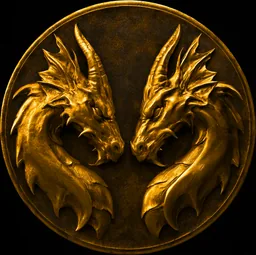
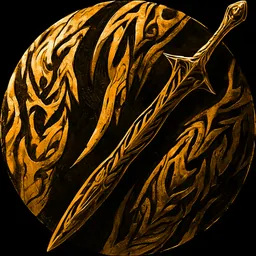
#349i the tribal crests cohere, and the 19px limit turns out to be the FORMAT not the style
The owner generated the room marks again in tribal form after the relief medallions failed to
make a set. The difference is measurable and it is the point: four returns sharing ONE language,
gold on black, ink density clustered 71-83%. That is exactly the set-consistency --sref could
not buy in #349g. Tribal is flatter, so there is less for the model to vary.

Three of the four landed on a PURE BLACK ground -- (0,0,0), (0,0,0), (4,1,0) -- so #349d's rule
applies and they ship with no alpha plane at all. The fourth (#93) is the odd one out twice
over: ground (37,23,13), and inverted -- dark ink on a light disc where the others are gold on
dark. Not taken.

Banked and graded to the ramp (hue pulled 60% to 40deg, saturation x2.1):

  assets/room_matchup.webp  sword   hue 40.3  sat .57  20KB
  assets/room_draft.webp    eggs    hue 40.5  sat .73  18KB
  assets/room_league.webp   wyrm    hue 39.5  sat .71  20KB

All three inside the ramp on BOTH axes (36-43deg, .55-.75) -- the closest colour match of any
generated asset this session, and the first that needed no argument about being too pale.

room_matchup.webp IS REPLACED, not added to. #349f banked the relief medallion under that name;
it is a different visual language from these and the two cannot share a nav. The relief version
is superseded and gone from the tree rather than left to be picked up by mistake later.

THE REAL FINDING, which costs nothing to state and would have cost a batch to rediscover: NONE
[…]

diff --git a/ui_explore/round7/ART_BRIEF.md b/ui_explore/round7/ART_BRIEF.md
@@ -92,6 +92,29 @@ the expensive way.
 `assets/room_matchup.webp` is kept: it is a good crest on its own and may serve as a one-off
 somewhere, but there is no set and no plan to finish one.
 
+## The tribal crests DID cohere -- and the size limit is the format, not the style
+
+After the relief medallions failed to make a set, the owner generated the same idea in TRIBAL
+form. Measured, the difference is real: four returns sharing one language, gold on black, ink
+density clustered 71-83%. That is the set-consistency `--sref` could not buy. Tribal is flatter,
+so there is less for the model to vary.
+
+Three of four landed on a PURE BLACK ground -- (0,0,0), (0,0,0), (4,1,0) -- so they screen-blend
+with no alpha, per the rule above. Graded to hue 39.5-40.5 and saturation .57-.73, they are the
+closest colour match to the ramp of anything generated.
+
+**But none survives to 19px**, and neither did the reliefs. By 32px every one is a textured gold
+disc. THAT IS THE MEDALLION FORMAT, NOT THE STYLE: a circular mark carrying internal detail dies
+below about 48px however it is drawn. So the division is by SIZE, not by technique:
+
+| where | what | why |
+|---|---|---|
+| 19px nav tabs | drawn SVG glyphs (`tribal_glyphs.py`) | generated art is a dot here; measured |
+| 96px+ room headers | generated tribal crests | relief and detail are the entire point |
+
+Each crest appears alone at the top of its own room, never beside another, which is what made
+the earlier inconsistency glaring and what makes this set workable.
+
 ## Weight
 
 The current page embeds the banner as base64 and is **111 KB, of which 64 KB is the image**.
